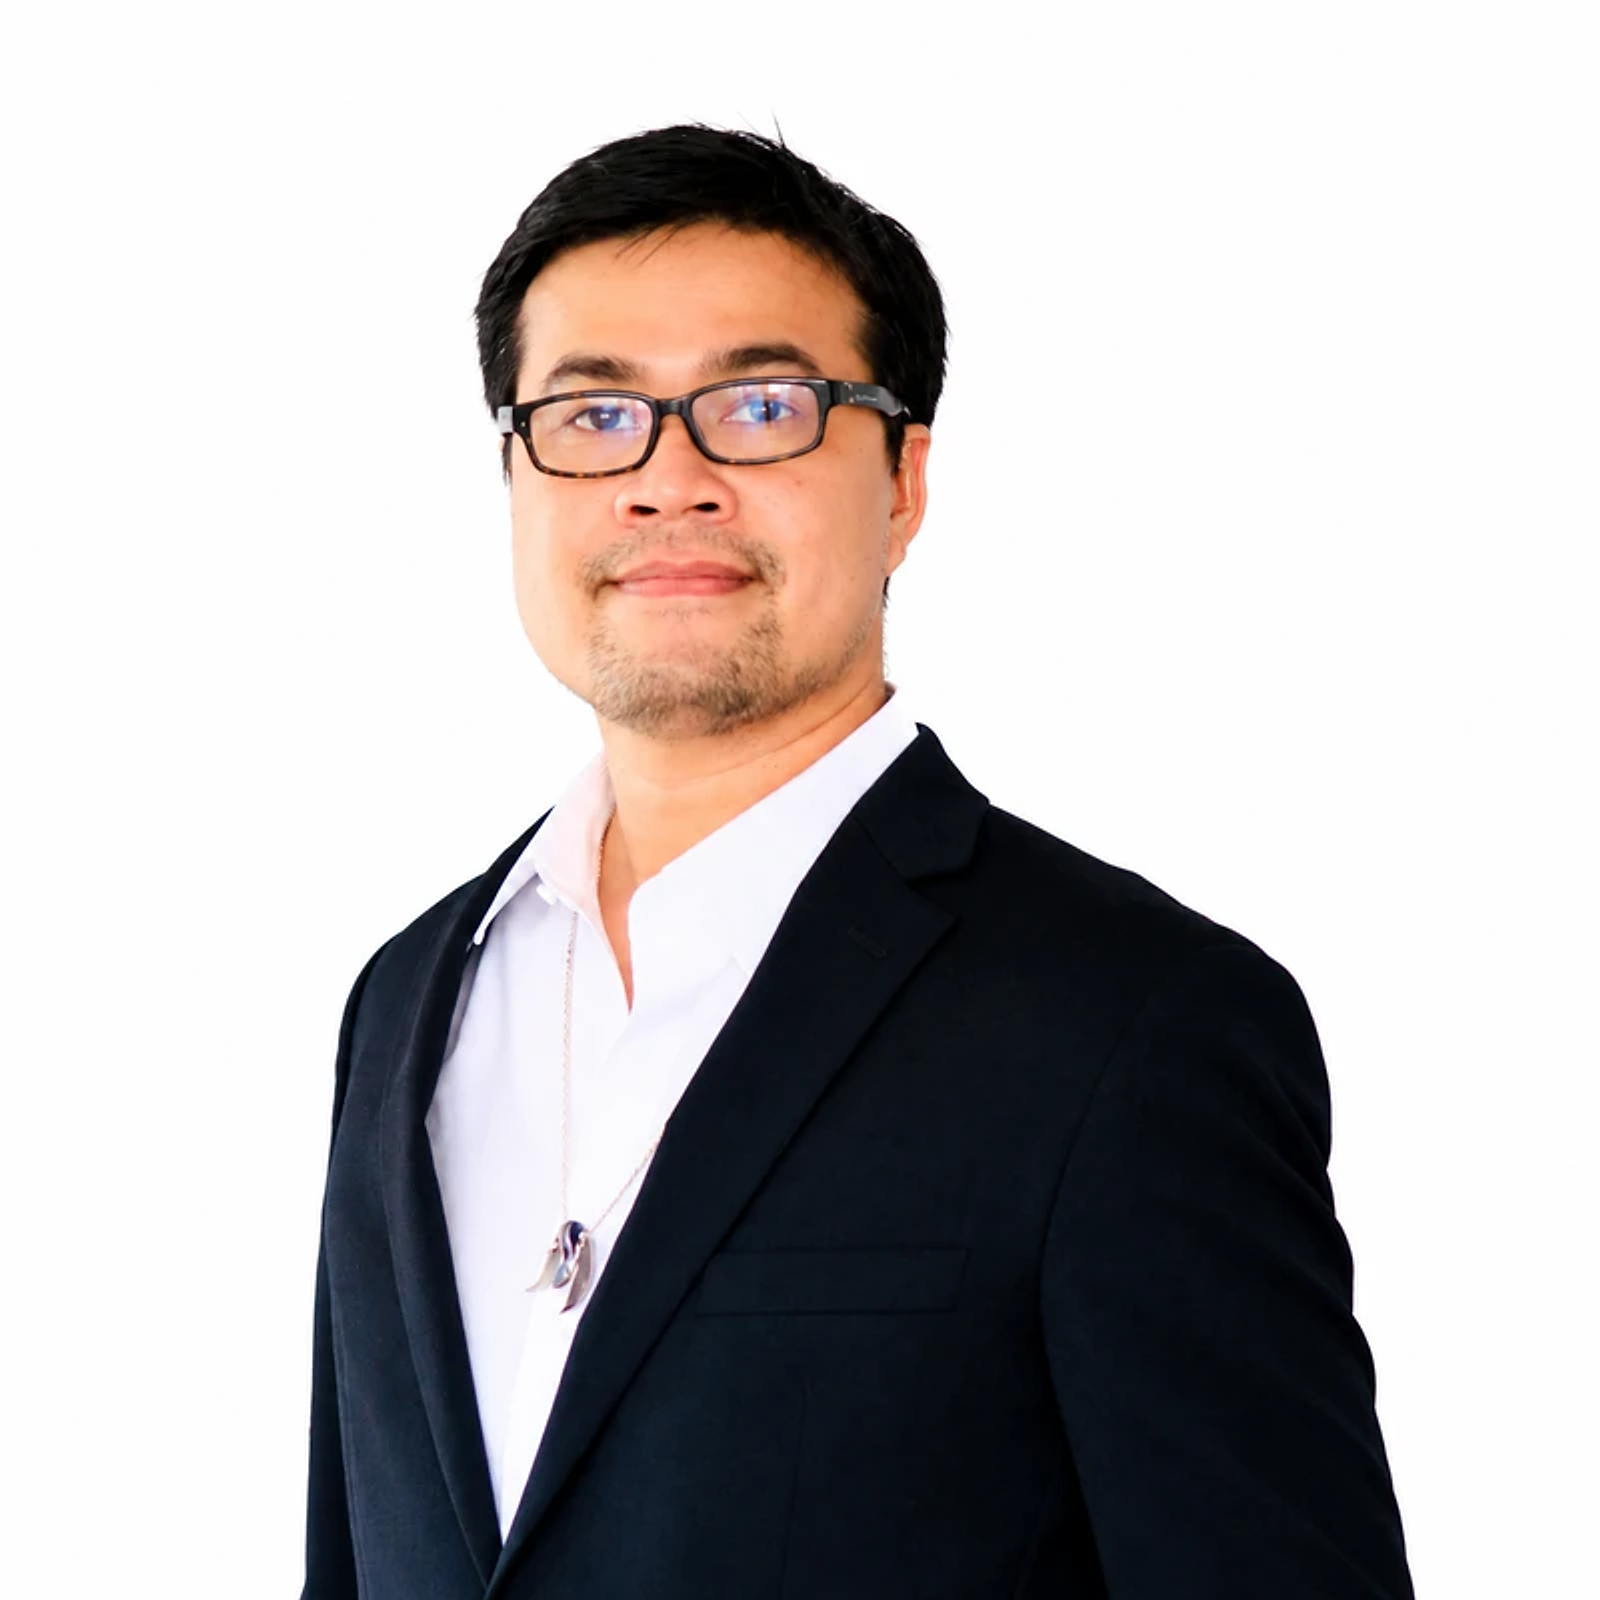
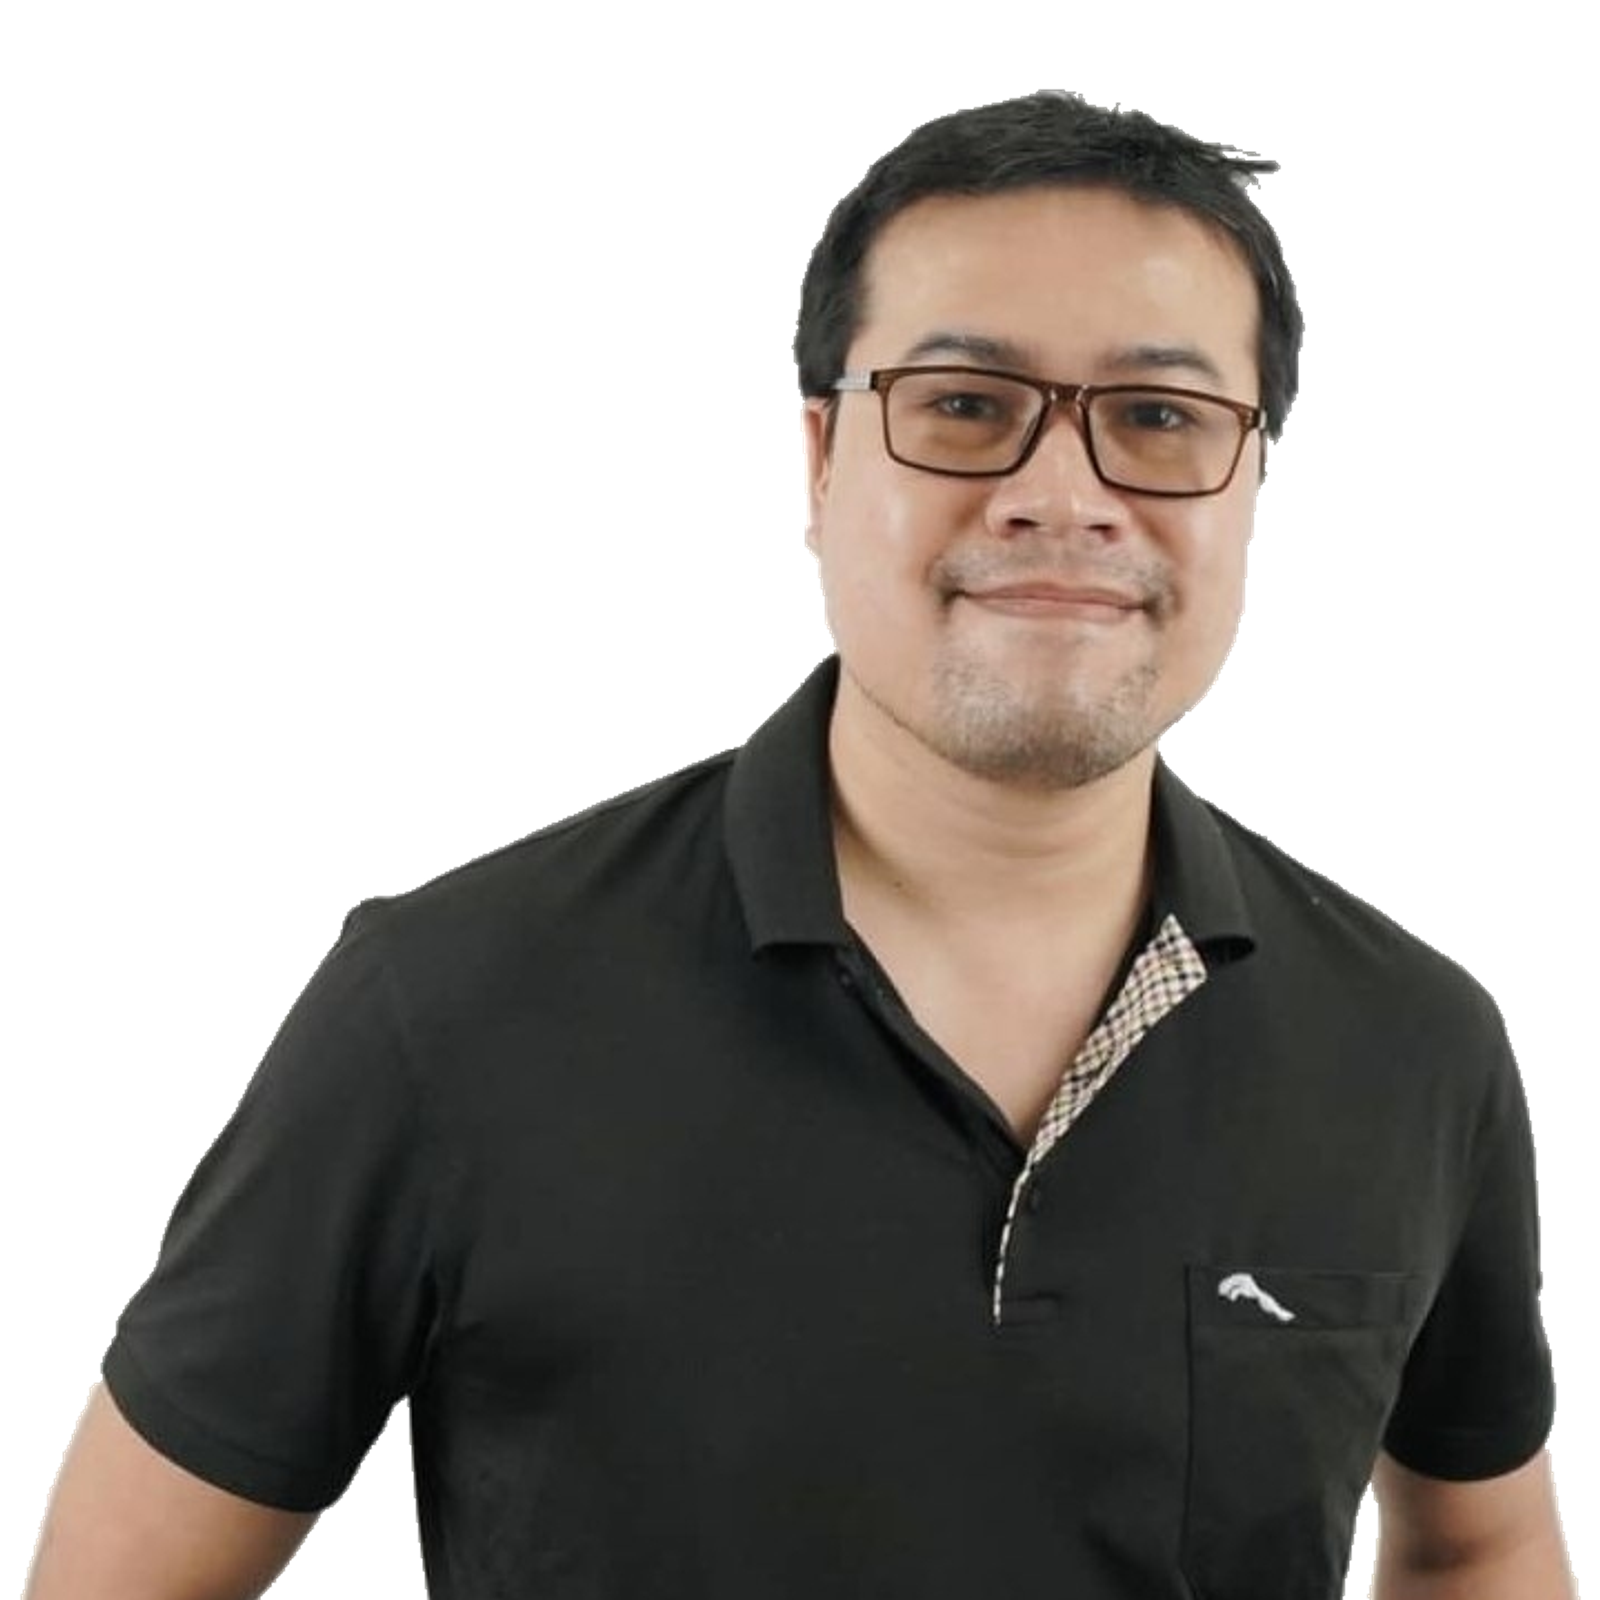
BIg fix

diff --git a/data/editions.ts b/data/editions.ts
@@ -41,9 +41,9 @@ export const editions: Edition[] = [
       en: "Suranaree University of Technology",
     },
     city: { th: "นครราชสีมา", en: "Nakhon Ratchasima" },
-    date: null,
-    dateConfirmed: false,
-    dateLabel: { th: "จะประกาศภายหลัง", en: "To be announced later" },
+    date: "2026-11-21",
+    dateConfirmed: true,
+    dateLabel: { th: "21 พฤศจิกายน 2026", en: "21 November 2026" },
     start: "13:00",
     end: "17:00",
     capacity: 50,
@@ -92,9 +92,9 @@ export const editions: Edition[] = [
     slug: "bangkok",
     name: { th: "IBM Thailand", en: "IBM Thailand" },
     city: { th: "กรุงเทพฯ", en: "Bangkok" },
-    date: null,
-    dateConfirmed: false,
-    dateLabel: { th: "รอยืนยันวันที่", en: "Date to be confirmed" },
+    date: "2026-11-07",
+    dateConfirmed: true,
+    dateLabel: { th: "7 พฤศจิกายน 2026", en: "7 November 2026" },
     start: "08:30",
     end: "16:15",
     capacity: 40,
@@ -180,9 +180,9 @@ export const editions: Edition[] = [
       en: "Chiang Mai University",
     },
     city: { th: "เชียงใหม่", en: "Chiang Mai" },
-    date: null,
-    dateConfirmed: false,
-    dateLabel: { th: "รอยืนยันวันที่", en: "Date to be confirmed" },
+    date: "2026-11-07",
+    dateConfirmed: true,
+    dateLabel: { th: "7 พฤศจิกายน 2026", en: "7 November 2026" },
     start: "08:30",
     end: "17:00",
     capacity: 30,
@@ -220,9 +220,9 @@ export const editions: Edition[] = [
       en: "Prince of Songkla University",
     },
     city: { th: "สงขลา", en: "Songkhla" },
-    date: null,
-    dateConfirmed: false,
-    dateLabel: { th: "รอยืนยันวันที่", en: "Date to be confirmed" },
+    date: "2026-11-28",
+    dateConfirmed: true,
+    dateLabel: { th: "28 พฤศจิกายน 2026", en: "28 November 2026" },
     start: "08:30",
     end: "17:00",
     capacity: 30,
@@ -233,7 +233,7 @@ export const editions: Edition[] = [
       en: "Students, faculty, and enthusiasts in southern Thailand",
     },
     summary: {
-      th: "งาน Regional Workshop Node ของภาคใต้ จัดที่มหาวิทยาลัยสงขลานครินทร์ ดูแลโดย ผศ. ดร. ปรือ กลัสุวรรณ ใช้หลักสูตรแกนกลางเดียวกันกับทุก Hub",
+      th: "งาน Regional Workshop Node ของภาคใต้ จัดที่มหาวิทยาลัยสงขลานครินทร์ ดูแลโดย ผศ. ดร. พฤฒิ กาฬสุวรรณ ใช้หลักสูตรแกนกลางเดียวกันกับทุก Hub",
       en: "The southern regional workshop node at Prince of Songkla University, led by Asst. Prof. Dr. Pruet Kalasuwan. Same core curriculum as all hubs.",
     },
     mapQuery: "Prince of Songkla University, Hat Yai",
@@ -260,9 +260,9 @@ export const editions: Edition[] = [
       en: "Naresuan University",
     },
     city: { th: "พิษณุโลก", en: "Phitsanulok" },
-    date: "2026-11-27",
+    date: "2026-11-28",
     dateConfirmed: true,
-    dateLabel: { th: "27–28 พฤศจิกายน 2026", en: "27–28 November 2026" },
+    dateLabel: { th: "28 พฤศจิกายน 2026", en: "28 November 2026" },
     start: "08:30",
     end: "17:00",
     capacity: 30,

diff --git a/data/people.ts b/data/people.ts
@@ -9,6 +9,7 @@ export type Person = {
   photo?: string;
   photoPosition?: string;
   photoScale?: number;
+  photoOffsetX?: string;
   link?: string;
   confirmed: boolean;
 };
@@ -159,7 +160,7 @@ export const speakers: Person[] = [
     confirmed: false,
   },
   {
-    name: { th: "ผศ. ดร. ปรือ กลสุวรรณ", en: "Asst. Prof. Dr. Pruet Kalasuwan" },
+    name: { th: "ผศ. ดร. พฤฒิ กาฬสุวรรณ", en: "Asst. Prof. Dr. Pruet Kalasuwan" },
     role: { th: "วิทยากรรับเชิญ", en: "Invited speaker" },
     org: { th: "มหาวิทยาลัยสงขลานครินทร์", en: "Prince of Songkla University" },
     topic: { th: "Quantum Communication", en: "Quantum Communication" },
@@ -348,24 +349,25 @@ export const committee: CommitteeGroup[] = [
         name: { th: "ผศ. ดร. สุกฤต สุจริตกุล", en: "Asst. Prof. Dr. Sukrit Sucharitakul" },
         role: { th: "ผู้ประสานงานมหาวิทยาลัย", en: "University coordinator" },
         org: { th: "มหาวิทยาลัยเชียงใหม่", en: "Chiang Mai University" },
-        photo: asset("/assets/photos/committee-portraits/sukrit-sharp.png"),
-        photoPosition: "center 8%",
+        photo: asset("/assets/photos/AJ.nick.png"),
+        photoPosition: "center top",
         photoScale: 1.15,
-        confirmed: false,
+        photoOffsetX: "-18%",
+        confirmed: true,
       },
       {
         name: { th: "รศ. ดร. อนุชา วัชระภาสร", en: "Assoc. Prof. Dr. Anucha Watcharapasorn" },
         role: { th: "ผู้ประสานงานมหาวิทยาลัย", en: "University coordinator" },
         org: { th: "มหาวิทยาลัยเชียงใหม่", en: "Chiang Mai University" },
         photo: asset("/assets/photos/Dr.anucha.png"),
-        confirmed: false,
+        confirmed: true,
       },
       {
-        name: { th: "ผศ. ดร. ปรือ กลสุวรรณ", en: "Asst. Prof. Dr. Pruet Kalasuwan" },
+        name: { th: "ผศ. ดร. พฤฒิ กาฬสุวรรณ", en: "Asst. Prof. Dr. Pruet Kalasuwan" },
         role: { th: "ผู้ประสานงานมหาวิทยาลัย", en: "University coordinator" },
         org: { th: "มหาวิทยาลัยสงขลานครินทร์", en: "Prince of Songkla University" },
         photo: asset("/assets/photos/white-speakers/pruet.webp"),
-        confirmed: false,
+        confirmed: true,
       },
       // {
       //   name: { th: "รศ. ดร. อารียา จันทร์ศรี", en: "Assoc. Prof. Dr. Areeya Chantasri" },

diff --git a/data/programme.ts b/data/programme.ts
@@ -394,7 +394,7 @@ export const dayByDaySchedule: DayScheduleGroup[] = [
         duration: { th: "1 ชั่วโมง", en: "1 hour" },
         title: { th: "Quantum Communication", en: "Quantum Communication" },
         speaker: {
-          name: { th: "ผศ. ดร. ปรือ กลสุวรรณ", en: "Asst. Prof. Dr. Pruet Kalasuwan" },
+          name: { th: "ผศ. ดร. พฤฒิ กาฬสุวรรณ", en: "Asst. Prof. Dr. Pruet Kalasuwan" },
           role: { th: "ผู้เชี่ยวชาญด้านการสื่อสารควอนตัม & Southern Node Lead", en: "Quantum Communication Expert & Southern Node Lead" },
           org: { th: "มหาวิทยาลัยสงขลานครินทร์", en: "Prince of Songkla University" },
           photo: asset("/assets/photos/white-speakers/pruet.webp"),
@@ -430,8 +430,8 @@ export const dayByDaySchedule: DayScheduleGroup[] = [
   },
   {
     id: "day-onsite-workshops",
-    dateStr: "จะประกาศภายหลัง",
-    dayLabel: { th: "On-site Workshops (จะประกาศวันจัดงานภายหลัง)", en: "On-site Workshops (To be announced later)" },
+    dateStr: "7, 21, 28 พ.ย. 2026",
+    dayLabel: { th: "On-site Workshops (7, 21, 28 พฤศจิกายน 2026)", en: "On-site Workshops (November 7, 21, 28, 2026)" },
     sessionType: { th: "Regional Workshop Hubs (On-site)", en: "Regional Workshop Hubs (On-site)" },
     description: {
       th: "เวิร์กช็อปลงมือปฏิบัติการจริงในแต่ละภูมิภาค วันและเวลาจัดงานจะประกาศให้ทราบอย่างเป็นทางการเร็ว ๆ นี้",

diff --git a/app/calendar_view.html b/app/calendar_view.html
@@ -216,7 +216,7 @@
     { id: 3, title: 'Lecture 2: qBraid Platform & Optimization', speaker: 'คุณ Harshit Gupta, Ricky Young', role: 'Platform Partners & Engineers @ qBraid', status: 'Confirmed', date: '17', start: '14:00', end: '15:00', color: 'event-purple' },
     { id: 4, title: 'Quantum AI', speaker: 'ผศ. ดร. ชาญวิทย์ แก้วกสิ', role: 'Chief Technology Officer Centillex', status: 'Confirmed', date: '17', start: '15:00', end: '16:00', color: 'event-blue' },
     { id: 5, title: 'Quantum Hardware (NV-Center)', speaker: 'ผศ. ดร. สรวิศ แสงทวีสิน', role: 'สาขาวิชาฟิสิกส์ มทส.', status: 'Confirmed', date: '24', start: '14:00', end: '15:00', color: 'event-orange' },
-    { id: 6, title: 'Quantum Communication', speaker: 'ผศ. ดร. ปรือ กลสุวรรณ', role: 'ผู้เชี่ยวชาญควอนตัม & ม.อ.', status: 'Confirmed', date: '24', start: '15:00', end: '16:00', color: 'event-green' },
+    { id: 6, title: 'Quantum Communication', speaker: 'ผศ. ดร. พฤฒิ กาฬสุวรรณ', role: 'ผู้เชี่ยวชาญควอนตัม & ม.อ.', status: 'Confirmed', date: '24', start: '15:00', end: '16:00', color: 'event-green' },
     { id: 10, title: 'The wall beyond AI: Where computation stops, and what comes next?', speaker: 'Tan Chun Loong and Choong Pak Shen', role: 'Monash University Malaysia & Quantum Wings', status: 'Confirmed', date: '24', start: '16:00', end: '17:30', color: 'event-purple' },
     
     // TBC

diff --git a/app/page.tsx b/app/page.tsx
@@ -129,11 +129,11 @@ export default function Home() {
             </p>
 
             <Countdown
-              target="2026-10-17T14:00:00+07:00"
-              label={{ th: "นับถอยหลังสู่ Online Session 2", en: "Countdown to Online Session 2" }}
+              target="2026-11-07T08:30:00+07:00"
+              label={{ th: "นับถอยหลังสู่เวิร์กช็อป ณ IBM Thailand และ มหาวิทยาลัยเชียงใหม่", en: "Countdown to Workshops at IBM Thailand and Chiang Mai University" }}
               fallback={{
-                th: "17 ตุลาคม 2026 เวลา 14:00 น.",
-                en: "17 October 2026, 14:00",
+                th: "7 พฤศจิกายน 2026 เวลา 08:30 น. (เวลาประเทศไทย)",
+                en: "7 November 2026, 08:30 (ICT)",
               }}
             />
           </div>

diff --git a/scripts/update_svgs_full_card_bg.js b/scripts/update_svgs_full_card_bg.js
@@ -63,7 +63,7 @@ const svgs = {
   <g filter="url(#shadow-text)">
     <text x="200" y="108" text-anchor="middle" font-family="IBM Plex Sans Thai, sans-serif" font-size="18" font-weight="600" fill="white">Korat Hub</text>
     <text x="200" y="134" text-anchor="middle" font-family="IBM Plex Sans Thai, sans-serif" font-size="14" fill="#f0e6ff">Suranaree University of Technology</text>
-    <text x="200" y="162" text-anchor="middle" font-family="IBM Plex Sans Thai, sans-serif" font-size="13" fill="#d6c6fc">31 October 2026</text>
+    <text x="200" y="162" text-anchor="middle" font-family="IBM Plex Sans Thai, sans-serif" font-size="13" fill="#d6c6fc">21 November 2026</text>
     <text x="200" y="188" text-anchor="middle" font-family="IBM Plex Sans Thai, sans-serif" font-size="12" fill="#fc9fc9">50 seats</text>
   </g>
 </svg>`,

diff --git a/scripts/update_svgs_with_photos.js b/scripts/update_svgs_with_photos.js
@@ -62,7 +62,7 @@ const svgs = {
   <!-- Text details -->
   <text x="200" y="118" text-anchor="middle" font-family="IBM Plex Sans Thai, sans-serif" font-size="18" font-weight="600" fill="white">Korat Hub</text>
   <text x="200" y="142" text-anchor="middle" font-family="IBM Plex Sans Thai, sans-serif" font-size="14" fill="#d6c6fc">Suranaree University of Technology</text>
-  <text x="200" y="168" text-anchor="middle" font-family="IBM Plex Sans Thai, sans-serif" font-size="13" fill="#b796f6">31 October 2026</text>
+  <text x="200" y="168" text-anchor="middle" font-family="IBM Plex Sans Thai, sans-serif" font-size="13" fill="#b796f6">21 November 2026</text>
   <text x="200" y="192" text-anchor="middle" font-family="IBM Plex Sans Thai, sans-serif" font-size="12" fill="#fc9fc9">50 seats</text>
 </svg>`,
 

diff --git a/components/PersonCard.tsx b/components/PersonCard.tsx
@@ -13,7 +13,12 @@ export default function PersonCard({ p, showTopic = true }: { p: Person; showTop
       <div className="person__wrap">
         <img
           className="person__img"
-          style={{ objectPosition: p.photoPosition, transformOrigin: p.photoPosition, scale: p.photoScale }}
+          style={{
+            objectPosition: p.photoPosition,
+            transformOrigin: p.photoPosition,
+            scale: p.photoScale,
+            translate: p.photoOffsetX ? `${p.photoOffsetX} 0` : undefined,
+          }}
           src={p.photo ?? asset("/assets/speaker-placeholder.svg")}
           alt={p.photo ? t(p.name) : ""}
           aria-hidden={p.photo ? undefined : true}
